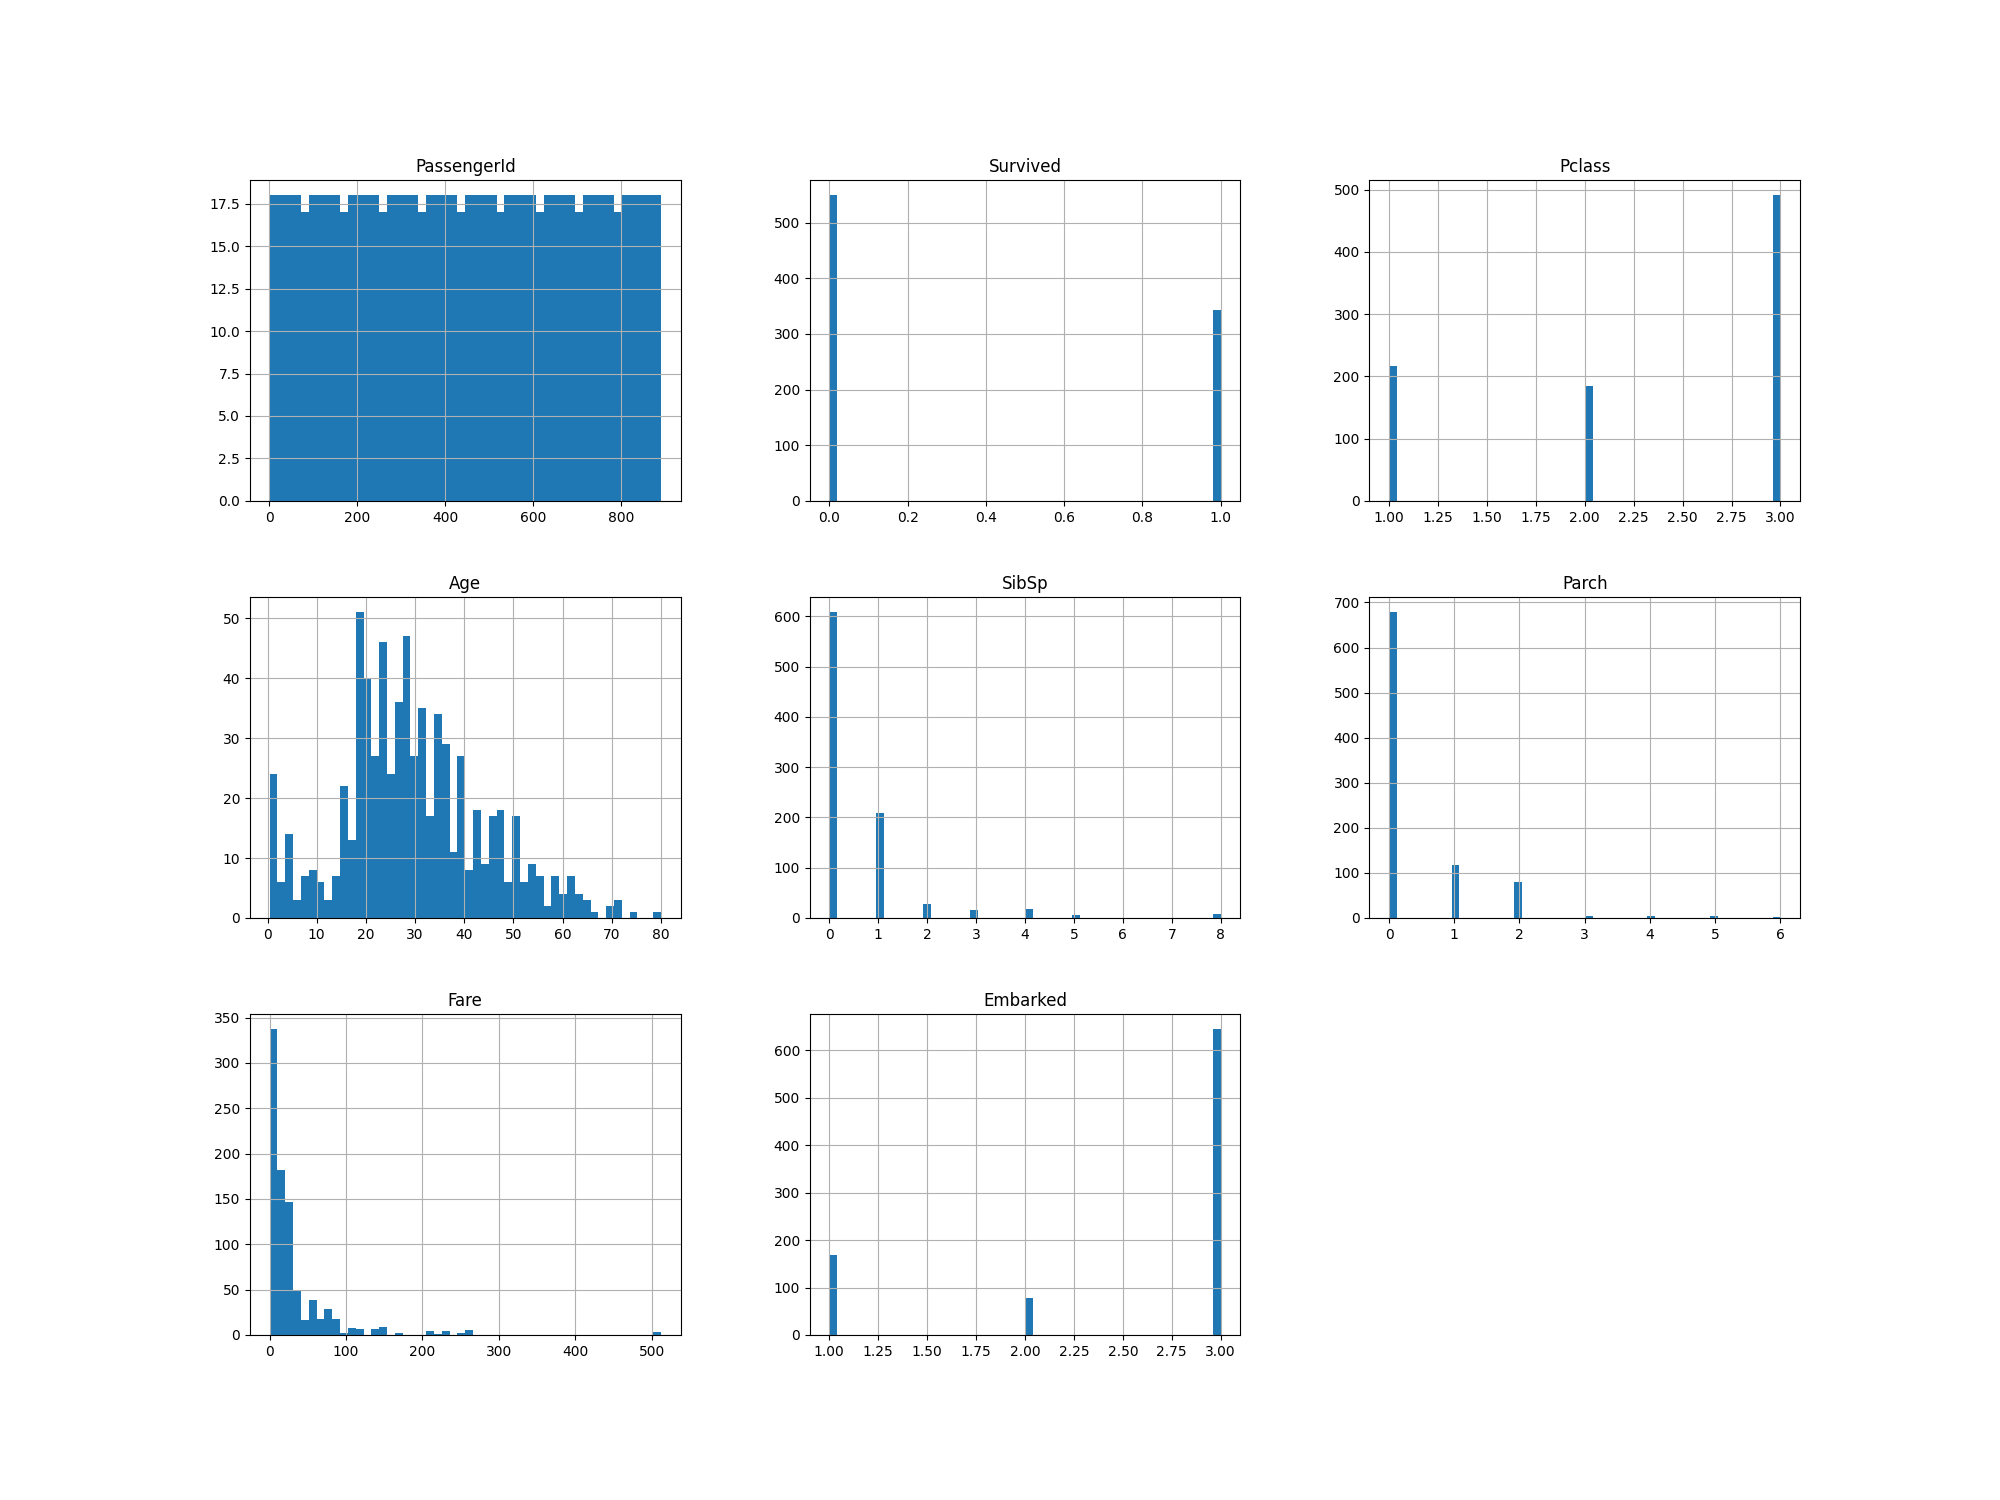
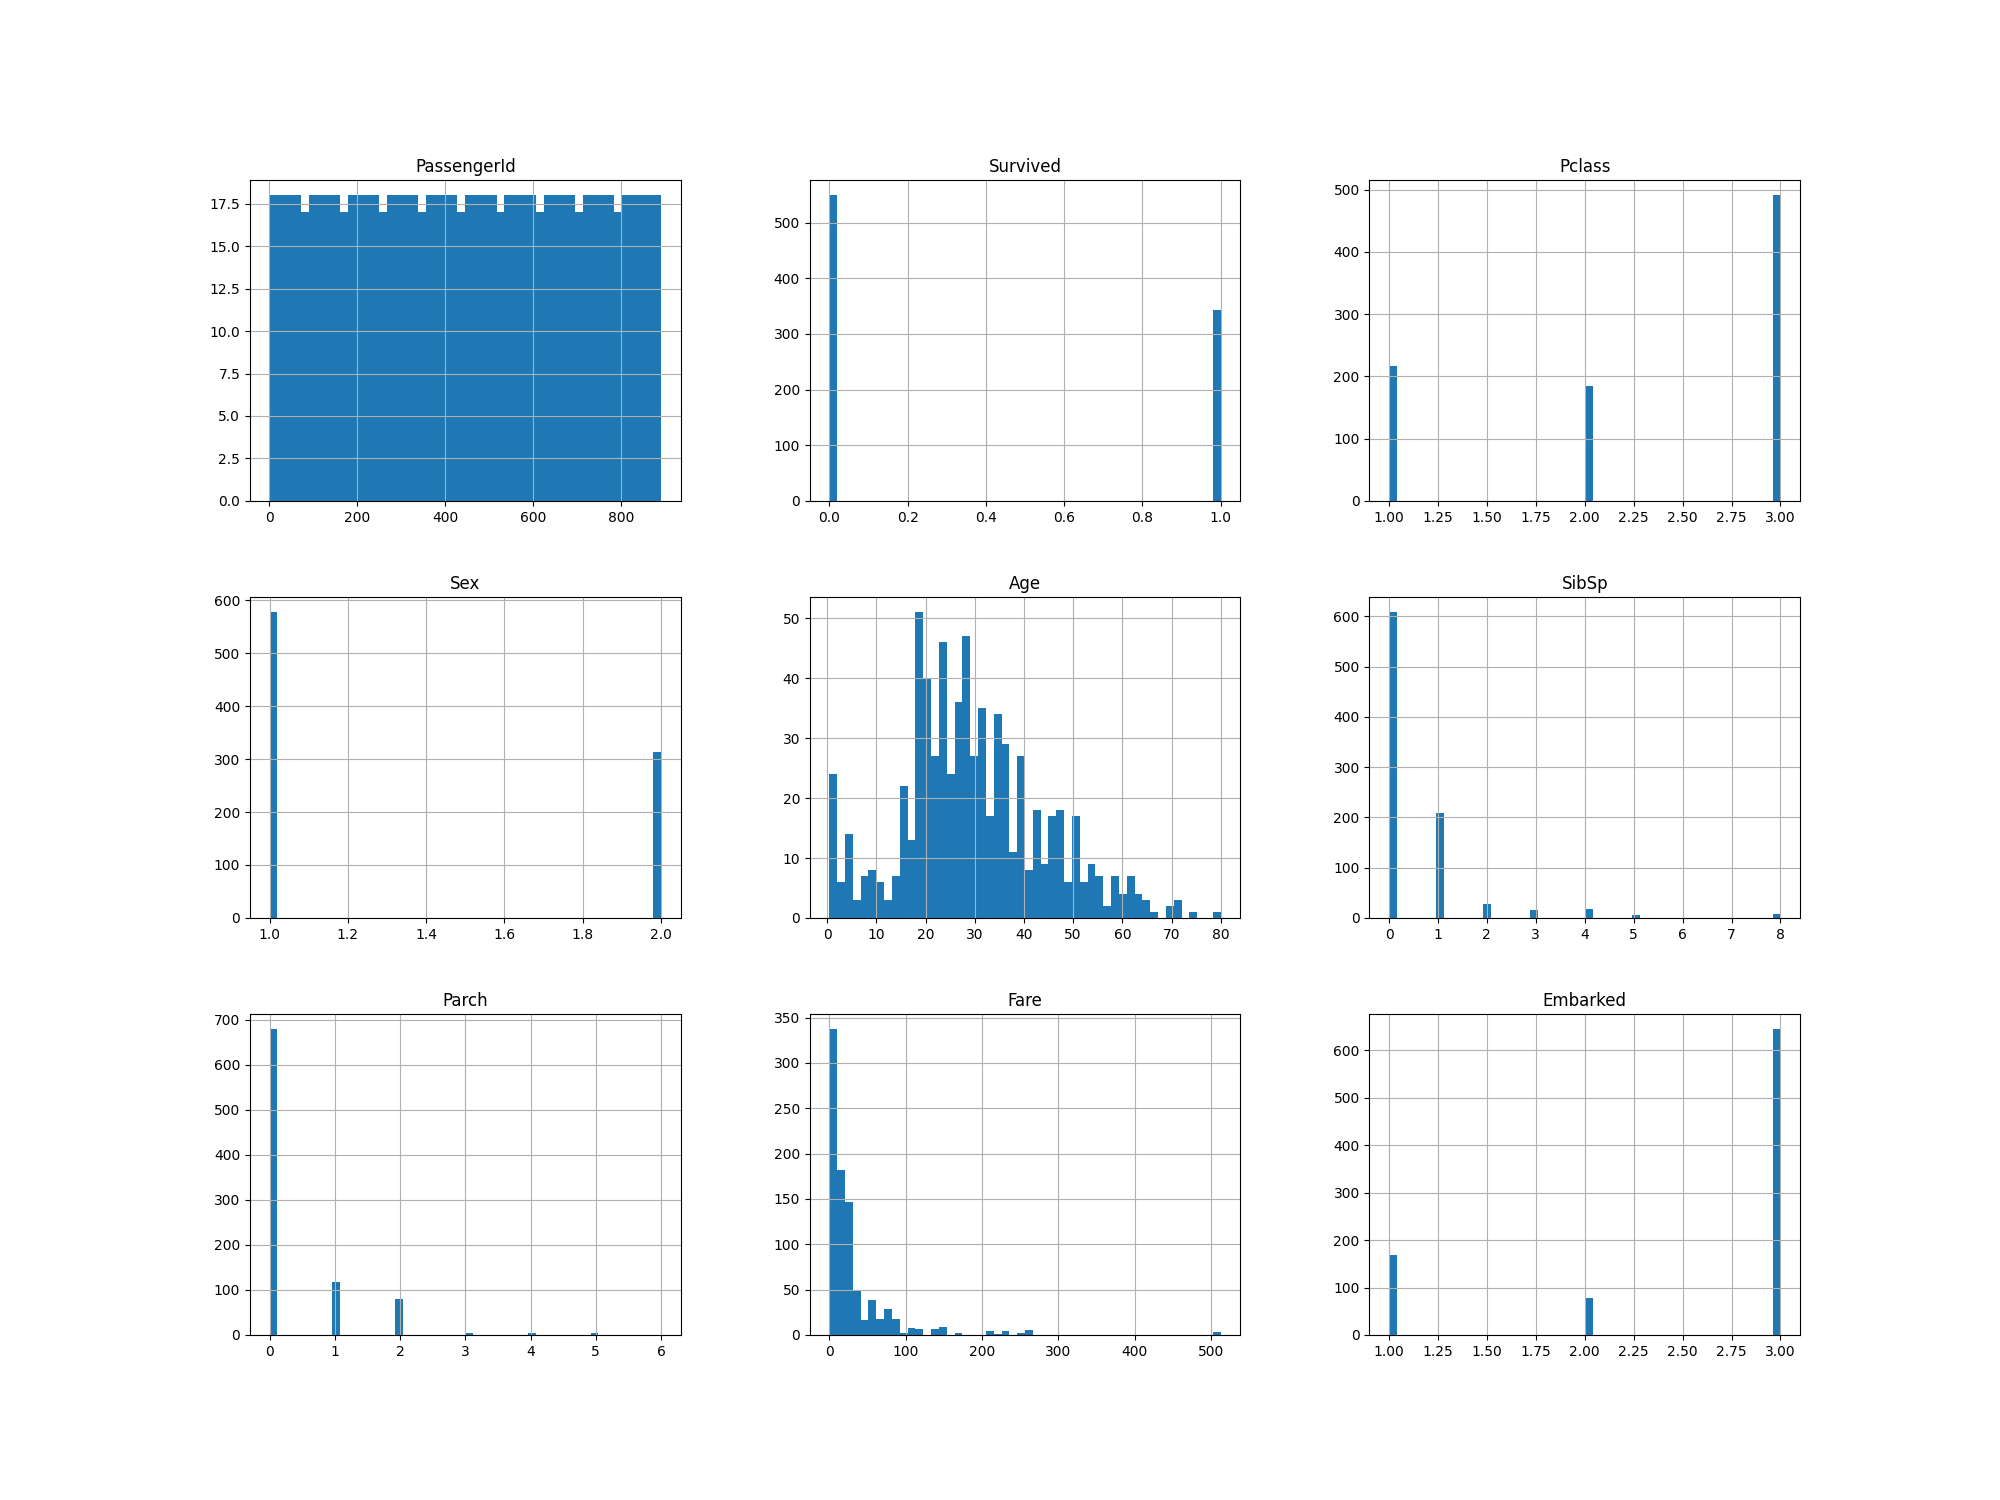
Added : Completed data transformation

diff --git a/Codes/DatasetOperations.py b/Codes/DatasetOperations.py
@@ -1,9 +1,9 @@
 from sklearn.model_selection import StratifiedShuffleSplit
+from numpy import savetxt
 
 import os
 import matplotlib.pyplot as plt
 import pandas as pd
-
 
 # Generic Paths
 MODEL_PATH = os.path.join("Models")
@@ -17,6 +17,8 @@ if not os.path.isdir(MODEL_PATH):
 if not os.path.isdir(DATASETS):
     os.makedirs(DATASETS)
 
+
+
 # load the training set as a pandas dataframe and split it into features and labels
 def check_and_load_data():
 
@@ -27,14 +29,9 @@ def check_and_load_data():
     print("<< Datasets found, loading...")
 
     titanic_data = pd.read_csv(os.path.join(DATASETS,'train.csv'))
-    # print("Information about loaded training set ->")
-    # print(titanic_data.info())
+    print("Information about loaded training set ->")
+    print(titanic_data.info())
 
-    # splitting data into features and labels
-    # X_train = titanic_data.drop("Survived",axis=1)
-    # y_train = titanic_data["Survived"].copy()
-
-    # return X_train,y_train
     return titanic_data
 
 def process_data(titanic_data):
@@ -48,12 +45,17 @@ def process_data(titanic_data):
     titanic_data.loc[titanic_data["Embarked"] == 'S', "Embarked" ] = 3
     titanic_data["Embarked"] = pd.to_numeric(titanic_data["Embarked"])
 
+    # Coverting Gender data into integer type
+    # 1 -> male
+    # 2 -> female
+    titanic_data.loc[titanic_data["Sex"] == "male", "Sex" ] = 1
+    titanic_data.loc[titanic_data["Sex"] == "female", "Sex" ] = 2
+    titanic_data["Sex"] = pd.to_numeric(titanic_data["Sex"])
+
     # Dropping cabin, name and ticket number column
     titanic_data.drop("Name",axis=1,inplace = True)
     titanic_data.drop("Ticket",axis=1,inplace = True)
     titanic_data.drop("Cabin",axis=1,inplace = True)
-
-    return
 
     # Splitting the set into train and test set
     print("<< Splitting data into train and test sets ->")
@@ -66,10 +68,19 @@ def process_data(titanic_data):
     print(strat_test_set.shape)
     print("Target stats for the created set ->")
     print(strat_train_set["Survived"].value_counts())
-    print(strat_test_set["Survived"].value_counts())
-    
+    print(strat_test_set["Survived"].value_counts())  
+
     # plotting the available information for each column in histograms and saving it
-    print(titanic_data.info())
-    titanic_data.hist(bins=50, figsize=(20,15))
-    plt.savefig(os.path.join(IMAGE_PATH,"column_information.png"))
-    plt.show()    
+    print("Information about final processed training dataset ->")
+    print(strat_train_set.info())
+    strat_train_set.hist(bins=50, figsize=(20,15))
+    plt.savefig(os.path.join(IMAGE_PATH,"column_information_prepared.png"))
+    plt.show()
+
+    # splitting data into features and labels
+    X_train = strat_train_set.drop("Survived",axis=1)
+    y_train = strat_train_set["Survived"].copy()
+
+    strat_test_set.to_csv(os.path.join(DATASETS,'test_from_train.csv'))
+
+    return X_train,y_train
